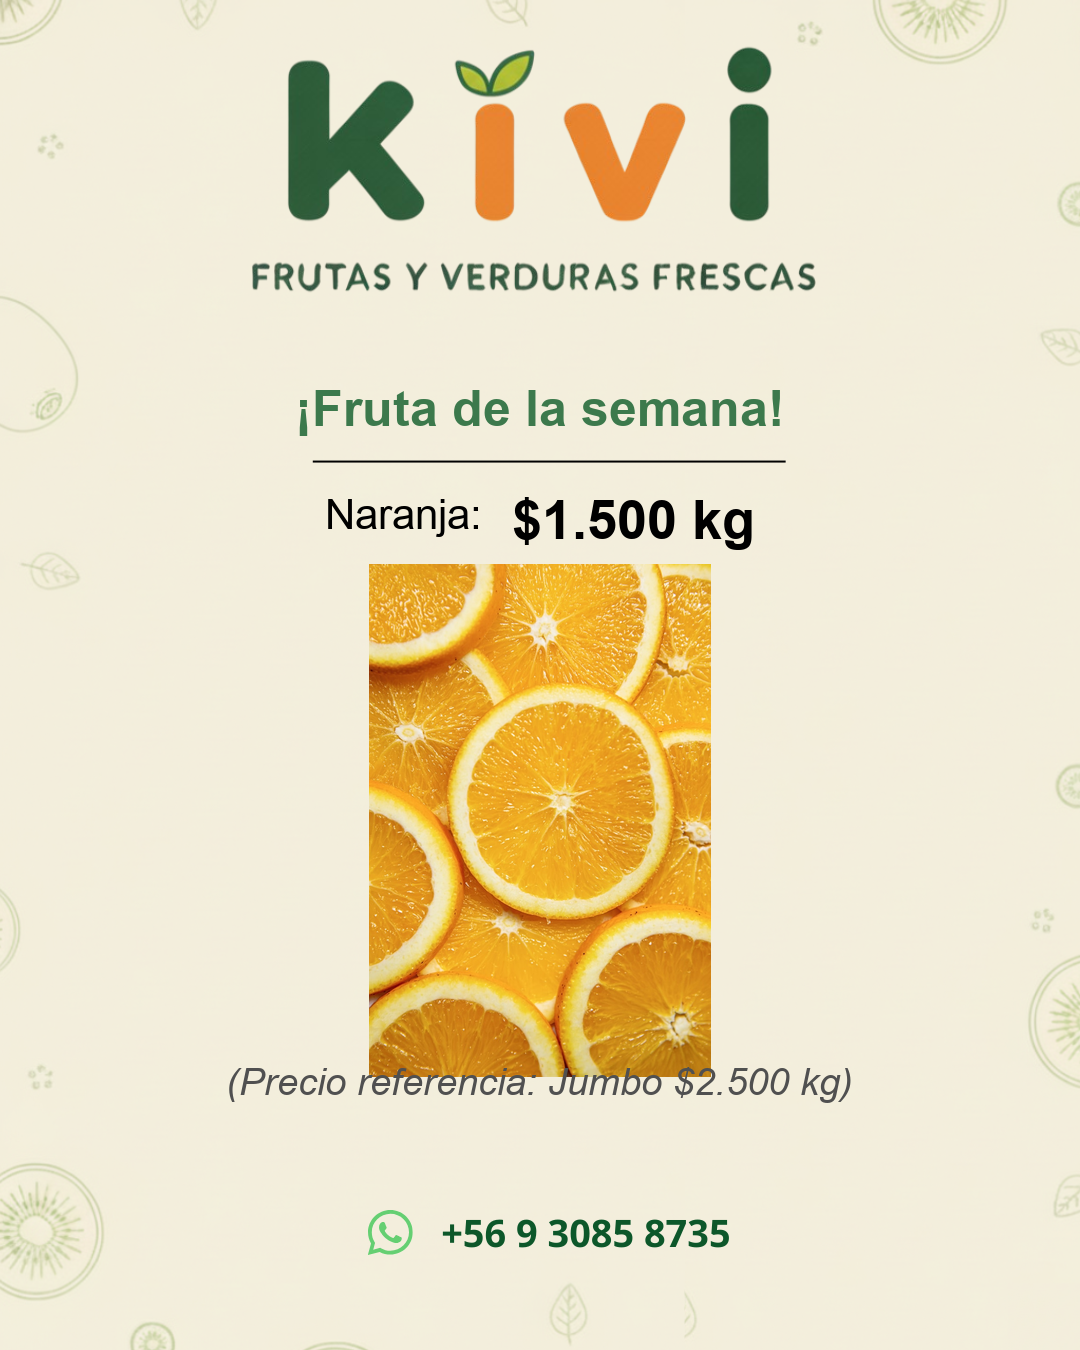
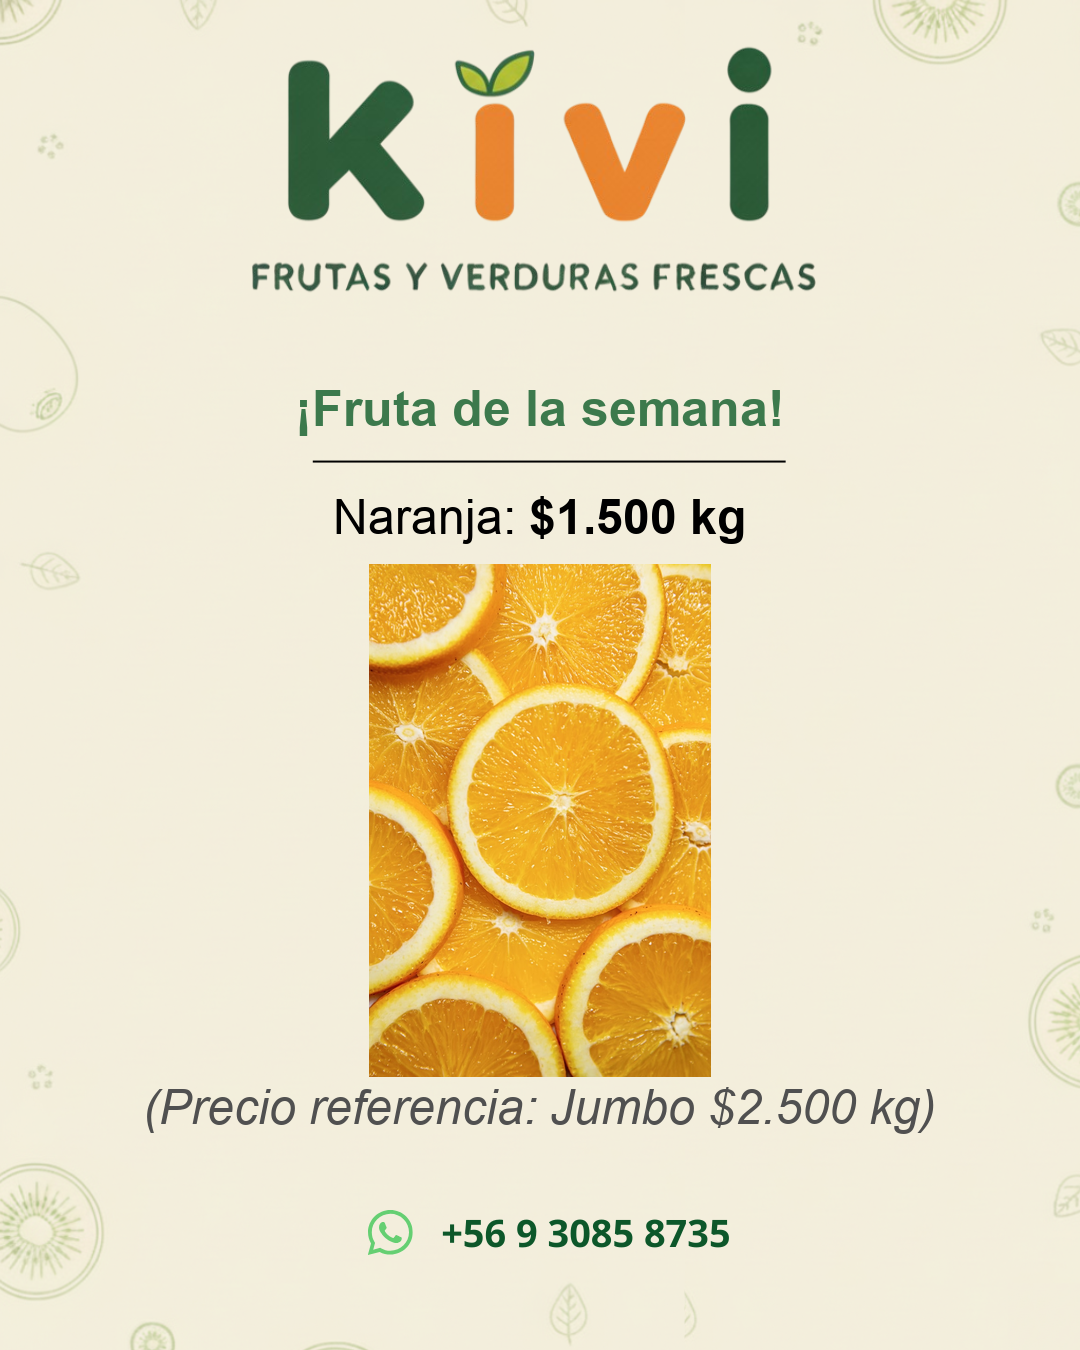
Automatizaciones 17

Changed region(s): [[0.1222, 0.7778, 0.8861, 0.84], [0.3056, 0.3733, 0.7028, 0.4044]]

diff --git a/app/social/utils/cloudinary_uploader.py b/app/social/utils/cloudinary_uploader.py
@@ -1,0 +1,105 @@
+"""
+Utilidad para subir imágenes a Cloudinary
+Para que las imágenes persistan entre redeploys
+"""
+import os
+import cloudinary
+import cloudinary.uploader
+from typing import Optional
+
+# Configurar Cloudinary al importar
+cloudinary.config(
+    cloud_name=os.getenv('CLOUDINARY_CLOUD_NAME'),
+    api_key=os.getenv('CLOUDINARY_API_KEY'),
+    api_secret=os.getenv('CLOUDINARY_API_SECRET')
+)
+
+
+def upload_offer_image(
+    local_image_path: str,
+    product_name: str,
+    offer_type: str  # 'fruta', 'verdura', 'especial'
+) -> Optional[str]:
+    """
+    Sube una imagen de oferta a Cloudinary
+    
+    Args:
+        local_image_path: Ruta local de la imagen generada
+        product_name: Nombre del producto (ej: "Tomate")
+        offer_type: Tipo de oferta ('fruta', 'verdura', 'especial')
+    
+    Returns:
+        URL pública de Cloudinary o None si falla
+    """
+    try:
+        # Verificar que Cloudinary esté configurado
+        if not all([
+            os.getenv('CLOUDINARY_CLOUD_NAME'),
+            os.getenv('CLOUDINARY_API_KEY'),
+            os.getenv('CLOUDINARY_API_SECRET')
+        ]):
+            print("⚠  Cloudinary no configurado - usando almacenamiento local (se borrará en redeploy)")
+            return None
+        
+        # Crear public_id único para la imagen
+        safe_name = product_name.lower().replace(' ', '_').replace('/', '_')
+        public_id = f"ofertas/{offer_type}_{safe_name}"
+        
+        print(f"📤 Subiendo imagen a Cloudinary: {public_id}")
+        
+        # Subir imagen
+        result = cloudinary.uploader.upload(
+            local_image_path,
+            folder="kivi",  # Carpeta raíz en Cloudinary
+            public_id=public_id,
+            overwrite=True,  # Reemplazar si ya existe
+            resource_type="image",
+            invalidate=True  # Invalidar cache del CDN
+        )
+        
+        # Obtener URL segura (HTTPS)
+        url = result['secure_url']
+        print(f"✅ Imagen subida exitosamente: {url[:60]}...")
+        
+        return url
+        
+    except Exception as e:
+        print(f"❌ Error subiendo imagen a Cloudinary: {e}")
+        print(f"   Usando almacenamiento local (se borrará en redeploy)")
+        return None
+
+
+def delete_offer_image(public_id: str) -> bool:
+    """
+    Elimina una imagen de Cloudinary
+    
+    Args:
+        public_id: ID público de la imagen en Cloudinary
+    
+    Returns:
+        True si se eliminó correctamente
+    """
+    try:
+        result = cloudinary.uploader.destroy(public_id)
+        return result.get('result') == 'ok'
+    except Exception as e:
+        print(f"Error eliminando imagen de Cloudinary: {e}")
+        return False
+
+
+def get_cloudinary_url_from_local_path(local_path: str) -> str:
+    """
+    Extrae la URL de Cloudinary desde una ruta local
+    Útil para migrar imágenes existentes
+    """
+    # Esto es para futuro uso si necesitas migrar imágenes
+    filename = os.path.basename(local_path)
+    name_without_ext = os.path.splitext(filename)[0]
+    
+    # Reconstruir URL de Cloudinary
+    cloud_name = os.getenv('CLOUDINARY_CLOUD_NAME')
+    if not cloud_name:
+        return local_path
+    
+    return f"https://res.cloudinary.com/{cloud_name}/image/upload/kivi/ofertas/{name_without_ext}"
+

diff --git a/app/social/utils/image_processor.py b/app/social/utils/image_processor.py
@@ -209,34 +209,38 @@ def generate_offer_image(
         print(f"Dibujando título: {title}")
         center_text(title, title_font, title_y, kivi_green)
         
-        # Dibujar nombre y precio EN LA MISMA LÍNEA (lado a lado)
+        # Dibujar nombre y precio como UNA SOLA ORACIÓN centrada
+        # MISMO tamaño de letra, solo el precio en negrita
         product_text = f"{product_name}:"
-        price_text = price
+        price_text = f" {price}"  # Espacio antes del precio
         
-        # Calcular anchos para centrarlos juntos
-        product_bbox = draw.textbbox((0, 0), product_text, font=product_font)
-        product_width = product_bbox[2] - product_bbox[0]
+        # Calcular ancho de la oración completa usando fuente normal
+        # (para calcular posición inicial)
+        full_text = product_text + price_text
+        temp_bbox = draw.textbbox((0, 0), full_text, font=product_font)
         
+        # Calcular anchos individuales para posicionar cada parte
+        name_bbox = draw.textbbox((0, 0), product_text, font=product_font)
+        name_width = name_bbox[2] - name_bbox[0]
+        
+        # Ancho del precio con fuente negrita
         price_bbox = draw.textbbox((0, 0), price_text, font=price_font)
         price_width = price_bbox[2] - price_bbox[0]
         
-        # Espacio entre nombre y precio
-        gap = 30
+        # Ancho total de la oración completa
+        total_width = name_width + price_width
         
-        # Ancho total del conjunto (nombre + gap + precio)
-        total_width = product_width + gap + price_width
-        
-        # Calcular posición X para centrar el conjunto completo
+        # Calcular posición X inicial para centrar toda la oración
         start_x = (width - total_width) // 2
         
-        # Dibujar nombre a la izquierda
+        # Dibujar nombre (fuente normal)
         name_x = start_x
-        print(f"Dibujando nombre: {product_text} en ({name_x}, {product_y})")
+        print(f"Dibujando nombre: '{product_text}' en ({name_x}, {product_y})")
         draw.text((name_x, product_y), product_text, fill=black_color, font=product_font)
         
-        # Dibujar precio a la derecha (negrita)
-        price_x = start_x + product_width + gap
-        print(f"Dibujando precio: {price_text} en ({price_x}, {price_y})")
+        # Dibujar precio inmediatamente después (fuente NEGRITA)
+        price_x = start_x + name_width
+        print(f"Dibujando precio: '{price_text}' en ({price_x}, {price_y})")
         draw.text((price_x, price_y), price_text, fill=black_color, font=price_font)
         
         # Descargar y colocar imagen del producto

diff --git a/app/social/utils/image_positions.py b/app/social/utils/image_positions.py
@@ -5,7 +5,7 @@ import json
 import os
 
 # Posiciones basadas en plantilla de 1080x1350 píxeles
-# Nombre y precio en la MISMA línea, precio ref MUCHO más grande
+# Nombre y precio como UNA SOLA ORACIÓN centrada, mismo tamaño, precio en negrita
 DEFAULT_POSITIONS = {
     "title": {
         "x": "center",
@@ -15,18 +15,18 @@ DEFAULT_POSITIONS = {
         "font_style": "rounded"  # Fuente más redonda
     },
     "product_name": {
-        "x": "left",  # Ahora se posiciona dinámicamente al lado del precio
+        "x": "center",  # Parte de una oración centrada
         "y": 490,  # MISMA altura que el precio
-        "font_size": 42,
-        "bold": False,
+        "font_size": 48,  # MISMO tamaño que el precio
+        "bold": False,  # Normal (no negrita)
         "color": "black"
     },
     "price": {
-        "x": "right",  # Ahora se posiciona dinámicamente al lado del nombre
+        "x": "center",  # Parte de una oración centrada
         "y": 490,  # MISMA altura que el nombre
-        "font_size": 54,
-        "bold": True,
-        "color": "black"  # Precio en negro NEGRITA destacado
+        "font_size": 48,  # MISMO tamaño que el nombre
+        "bold": True,  # NEGRITA (única diferencia)
+        "color": "black"
     },
     "product_image": {
         "x": "center",
@@ -36,8 +36,8 @@ DEFAULT_POSITIONS = {
     },
     "reference_price": {
         "x": "center",
-        "y": 1060,  # Antes del contacto de WhatsApp
-        "font_size": 38,  # MUCHO más grande (era 30)
+        "y": 1080,  # Un poco más abajo
+        "font_size": 48,  # MISMO tamaño que nombre y precio
         "bold": False,
         "italic": True,
         "color": "gray"
